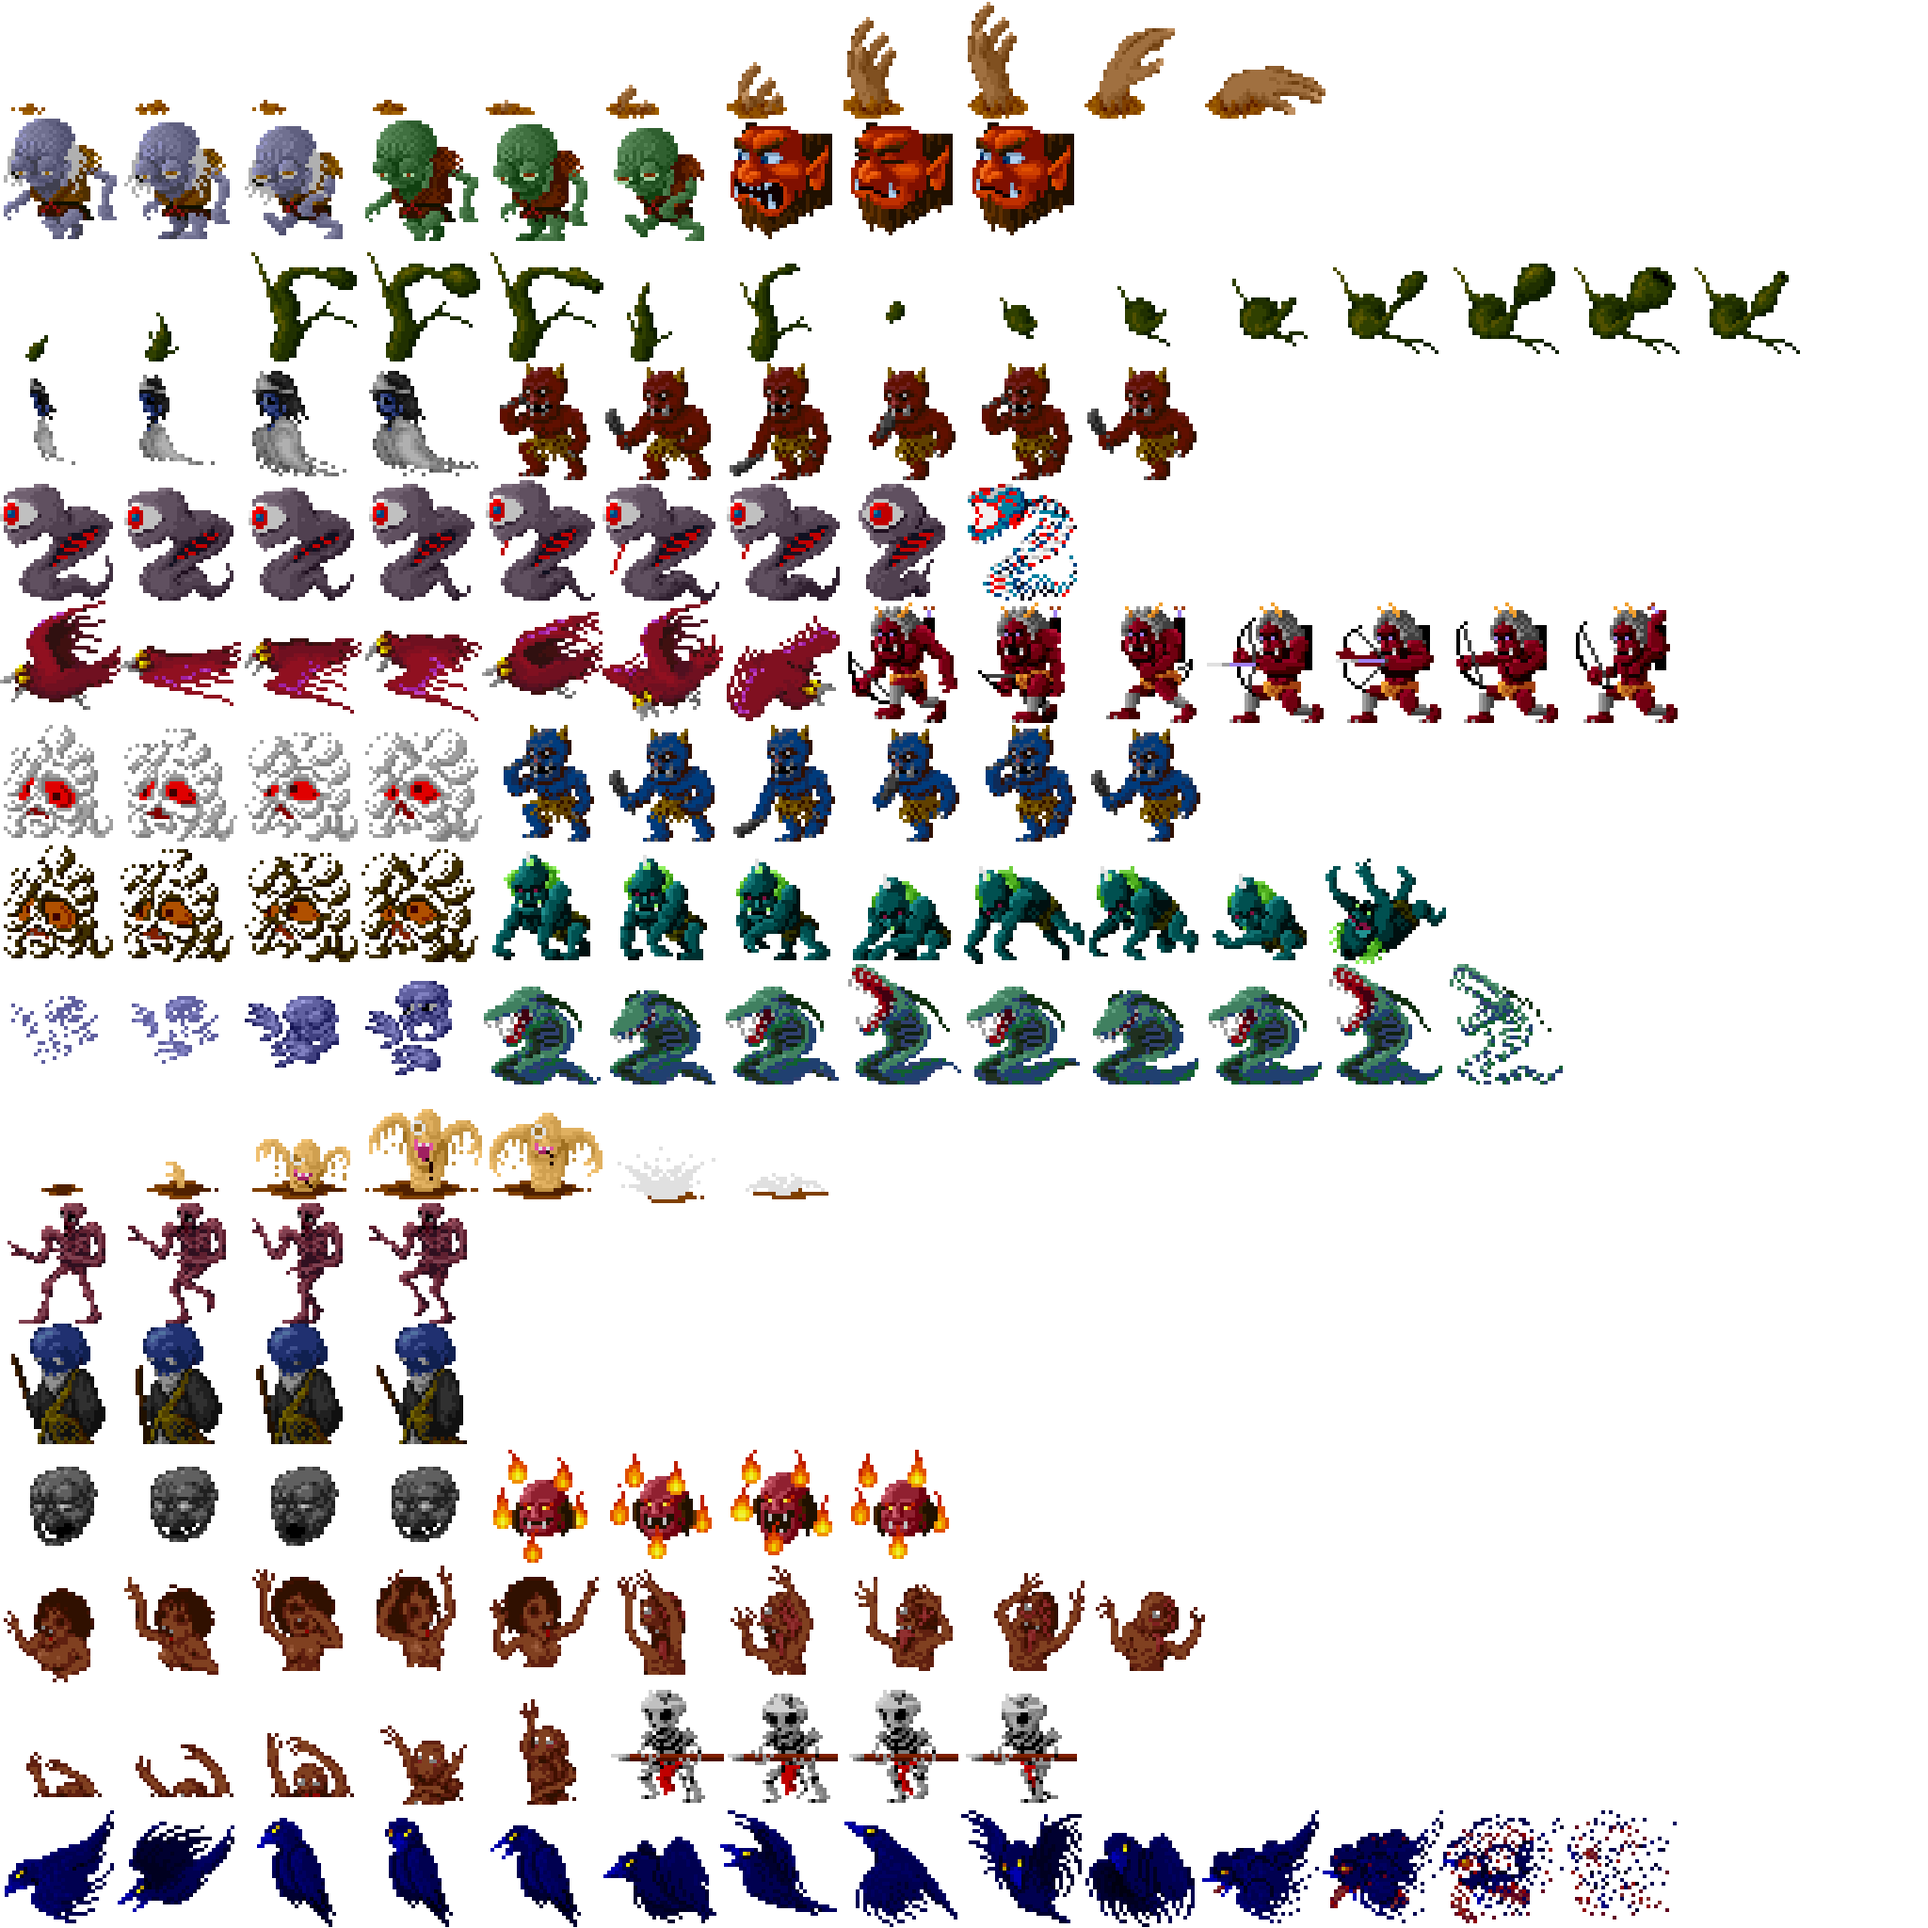
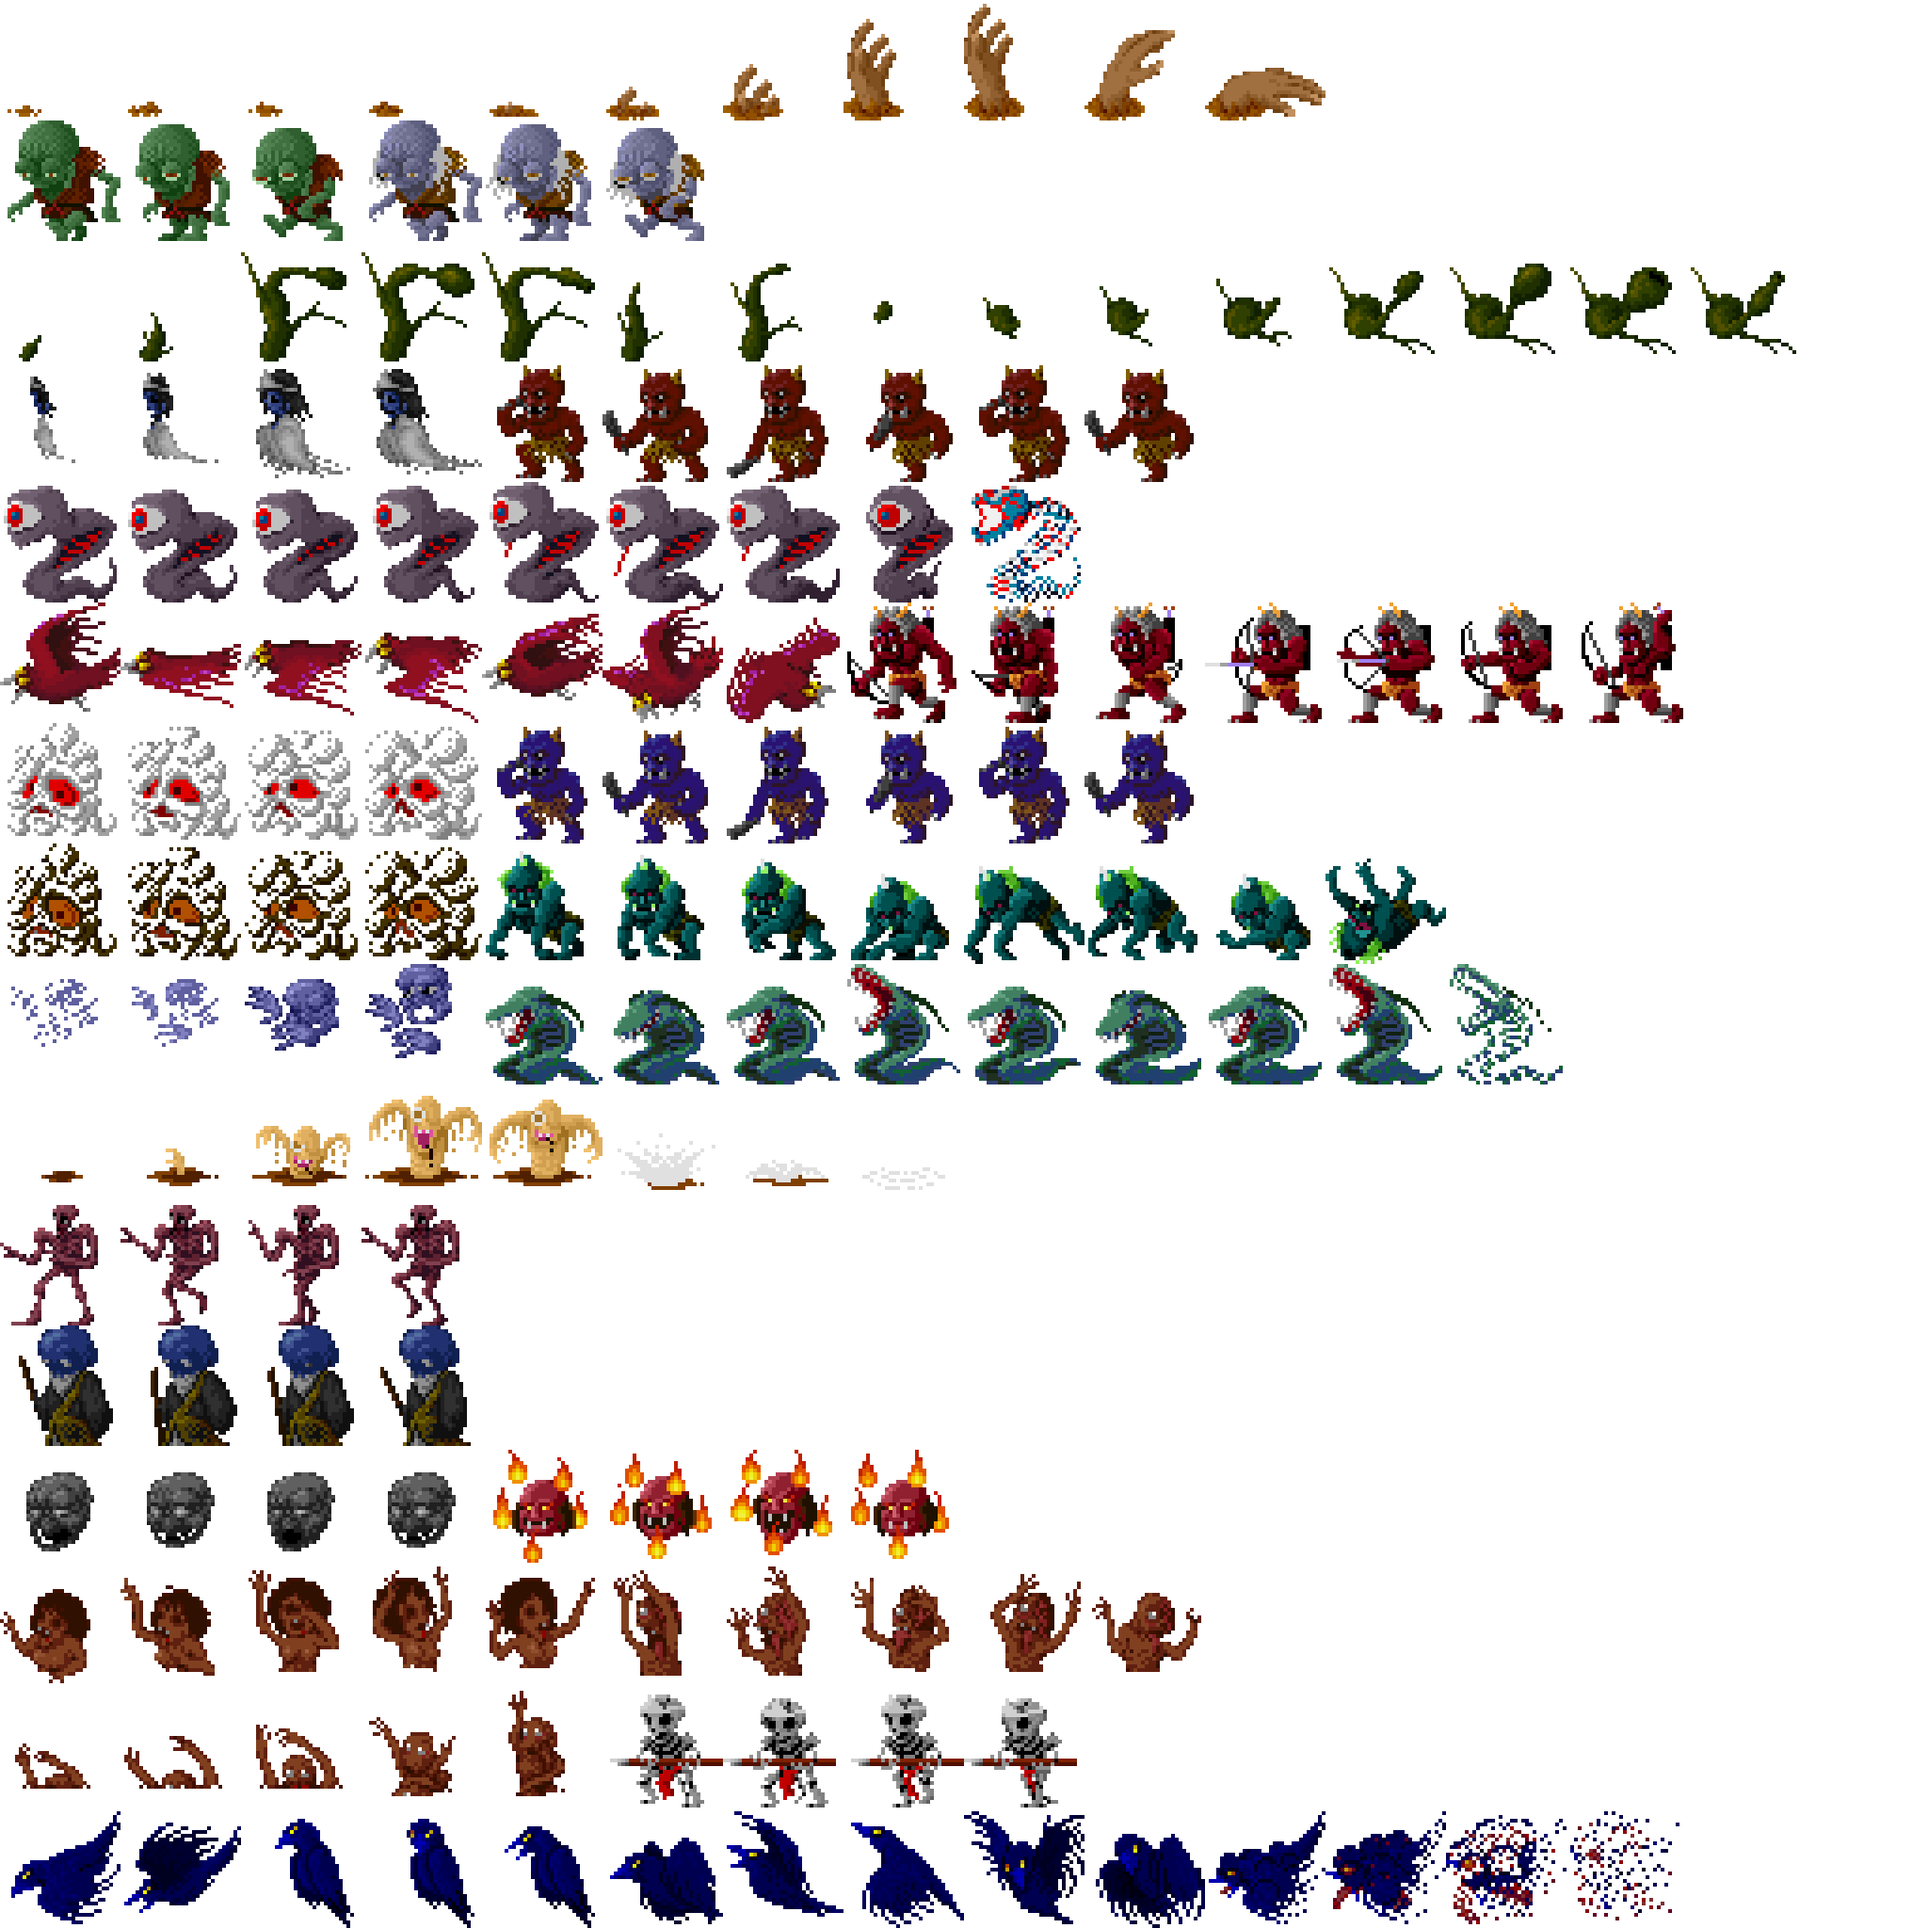
画像対応

diff --git a/Solution/EnemyJizo.cpp b/Solution/EnemyJizo.cpp
@@ -1,7 +1,7 @@
 #include "EnemyJizo.h"
 #include "EnemyFireball.h"
 
-static const int CHIP_SIZE = 264;
+static const int CHIP_SIZE = 256;
 static const int CHIP_FOOT = 0;
 static const int HP = 10;
 static const int POW = 2;
@@ -9,8 +9,9 @@ static const int MOVE_SPEED = 1;
 static const int WAIT_ANIME_TIME = 6;
 static const int WAIT_ATTACK_TIME = 100;
 static const int WAIT_APPEAR_TIME = 10;
-static const int ATTACK_FOOT = 100;
-static const int FIRE_SPEED = 5;
+static const int ATTACK_FOOT_Y = 120;
+static const int ATTACK_FOOT_X = 50;
+static const int FIRE_SPEED = 10;
 
 EnemyJizo::EnemyJizo( EnemyStockPtr stock, int x, int y ) :
 Enemy( x, y, CHIP_SIZE, CHIP_FOOT, true, HP, POW ),
@@ -41,8 +42,8 @@ void EnemyJizo::act( ) {
 void EnemyJizo::actNomal( ) {
 	setAccelX( -MOVE_SPEED );
 	if ( _act_count % WAIT_ATTACK_TIME == 0 ) {
-		Vector pos( getX( ), getY( ) - ATTACK_FOOT );
-		Vector vec = Vector( 1, 0.5 ).normalize( ) * FIRE_SPEED;
+		Vector pos( getX( ) - ATTACK_FOOT_X, getY( ) - ATTACK_FOOT_Y );
+		Vector vec = Vector( -1, 0.3 ).normalize( ) * FIRE_SPEED;
 		EnemyPtr enemy = EnemyPtr( new EnemyFireball( pos, vec ) );
 		_stock->addEnemy( enemy );
 	}
@@ -56,12 +57,11 @@ void EnemyJizo::actWait( ) {
 }
 
 void EnemyJizo::updateChip( ) {
-	const int MAX_WIDTH_NUM = 4;
 	const int MAX_ANIME_PATTERN = 8;
-	int u = _act_count / WAIT_ANIME_TIME % MAX_WIDTH_NUM;
-	int v = _act_count / WAIT_ANIME_TIME / MAX_WIDTH_NUM + 2;
-	setChipGraph( GRAPH_ENEMY_BIG_2, u, v );
-	if ( u == 3 && v == 3 ) {
+	int u = _act_count / WAIT_ANIME_TIME % MAX_ANIME_PATTERN;
+	int v = 7;
+	setChipGraph( GRAPH_ENEMY_BIG, u, v );
+	if ( u == 7 ) {
 		_action = ACTION_NOMAL;
 	}
 }

diff --git a/Solution/SceneStreet.cpp b/Solution/SceneStreet.cpp
@@ -34,8 +34,7 @@ SceneStreet::SceneStreet() {
 	drawer->loadGraph(GRAPH_BOMB          , "street/other/bomb.png");
 	drawer->loadGraph(GRAPH_ENEMY_NOMAL   , "street/enemy/enemy_nomal.png");
 	drawer->loadGraph(GRAPH_ENEMY_SMALL   , "street/enemy/enemy_small.png");
-	drawer->loadGraph(GRAPH_ENEMY_BIG_1   , "street/enemy/enemy_big1.png");
-	drawer->loadGraph(GRAPH_ENEMY_BIG_2   , "street/enemy/enemy_big2.png");
+	drawer->loadGraph(GRAPH_ENEMY_BIG   , "street/enemy/enemy_big.png");
 	drawer->loadGraph(GRAPH_ENEMY_TREE    , "street/enemy/enemy_tree.png");
 	drawer->loadGraph(GRAPH_ENEMY_FIREBALL, "street/enemy/enemy_fireball.png");
 	drawer->loadGraph(GRAPH_ENEMY_FLOG    , "street/enemy/enemy_frog_green.png");

diff --git a/Solution/EnemyWaterMonk.cpp b/Solution/EnemyWaterMonk.cpp
@@ -1,6 +1,6 @@
 #include "EnemyWaterMonk.h"
 
-static const int CHIP_SIZE = 264;
+static const int CHIP_SIZE = 256;
 static const int CHIP_FOOT = 0;
 static const int HP = 2;
 static const int POW = 2;
@@ -22,5 +22,5 @@ void EnemyWaterMonk::act( ) {
 	_act_count %= WAIT_ANIME_TIME * MAX_ANIME_PATTERN;
 	int u = ANIME[ _act_count / WAIT_ANIME_TIME % MAX_ANIME_PATTERN ];
 	int v = 4;
-	setChipGraph( GRAPH_ENEMY_BIG_1, u, v );
+	setChipGraph( GRAPH_ENEMY_BIG, u, v );
 }

diff --git a/Solution/EnemyOnyudo.cpp b/Solution/EnemyOnyudo.cpp
@@ -1,6 +1,6 @@
 #include "EnemyOnyudo.h"
 
-static const int CHIP_SIZE = 264;
+static const int CHIP_SIZE = 256;
 static const int CHIP_FOOT = 0;
 static const int HP = 10;
 static const int POW = 3;
@@ -22,5 +22,5 @@ void EnemyOnyudo::act( ) {
 	const int ANIME[ MAX_ANIME_PATTERN ] = { 0, 1, 2, 1 };
 	int u = ANIME[ getX( ) / WAIT_ANIME_TIME % MAX_ANIME_PATTERN ];
 	int v = 0;
-	setChipGraph( GRAPH_ENEMY_BIG_1, u, v );
+	setChipGraph( GRAPH_ENEMY_BIG, u, v );
 }

diff --git a/Solution/define.h b/Solution/define.h
@@ -55,8 +55,7 @@ enum GRAPH {
 	GRAPH_BOSS,
 	GRAPH_ENEMY_NOMAL,
 	GRAPH_ENEMY_SMALL,
-	GRAPH_ENEMY_BIG_1,
-	GRAPH_ENEMY_BIG_2,
+	GRAPH_ENEMY_BIG,
 	GRAPH_ENEMY_TREE,
 	GRAPH_ENEMY_FIREBALL,
 	GRAPH_ENEMY_FLOG,
